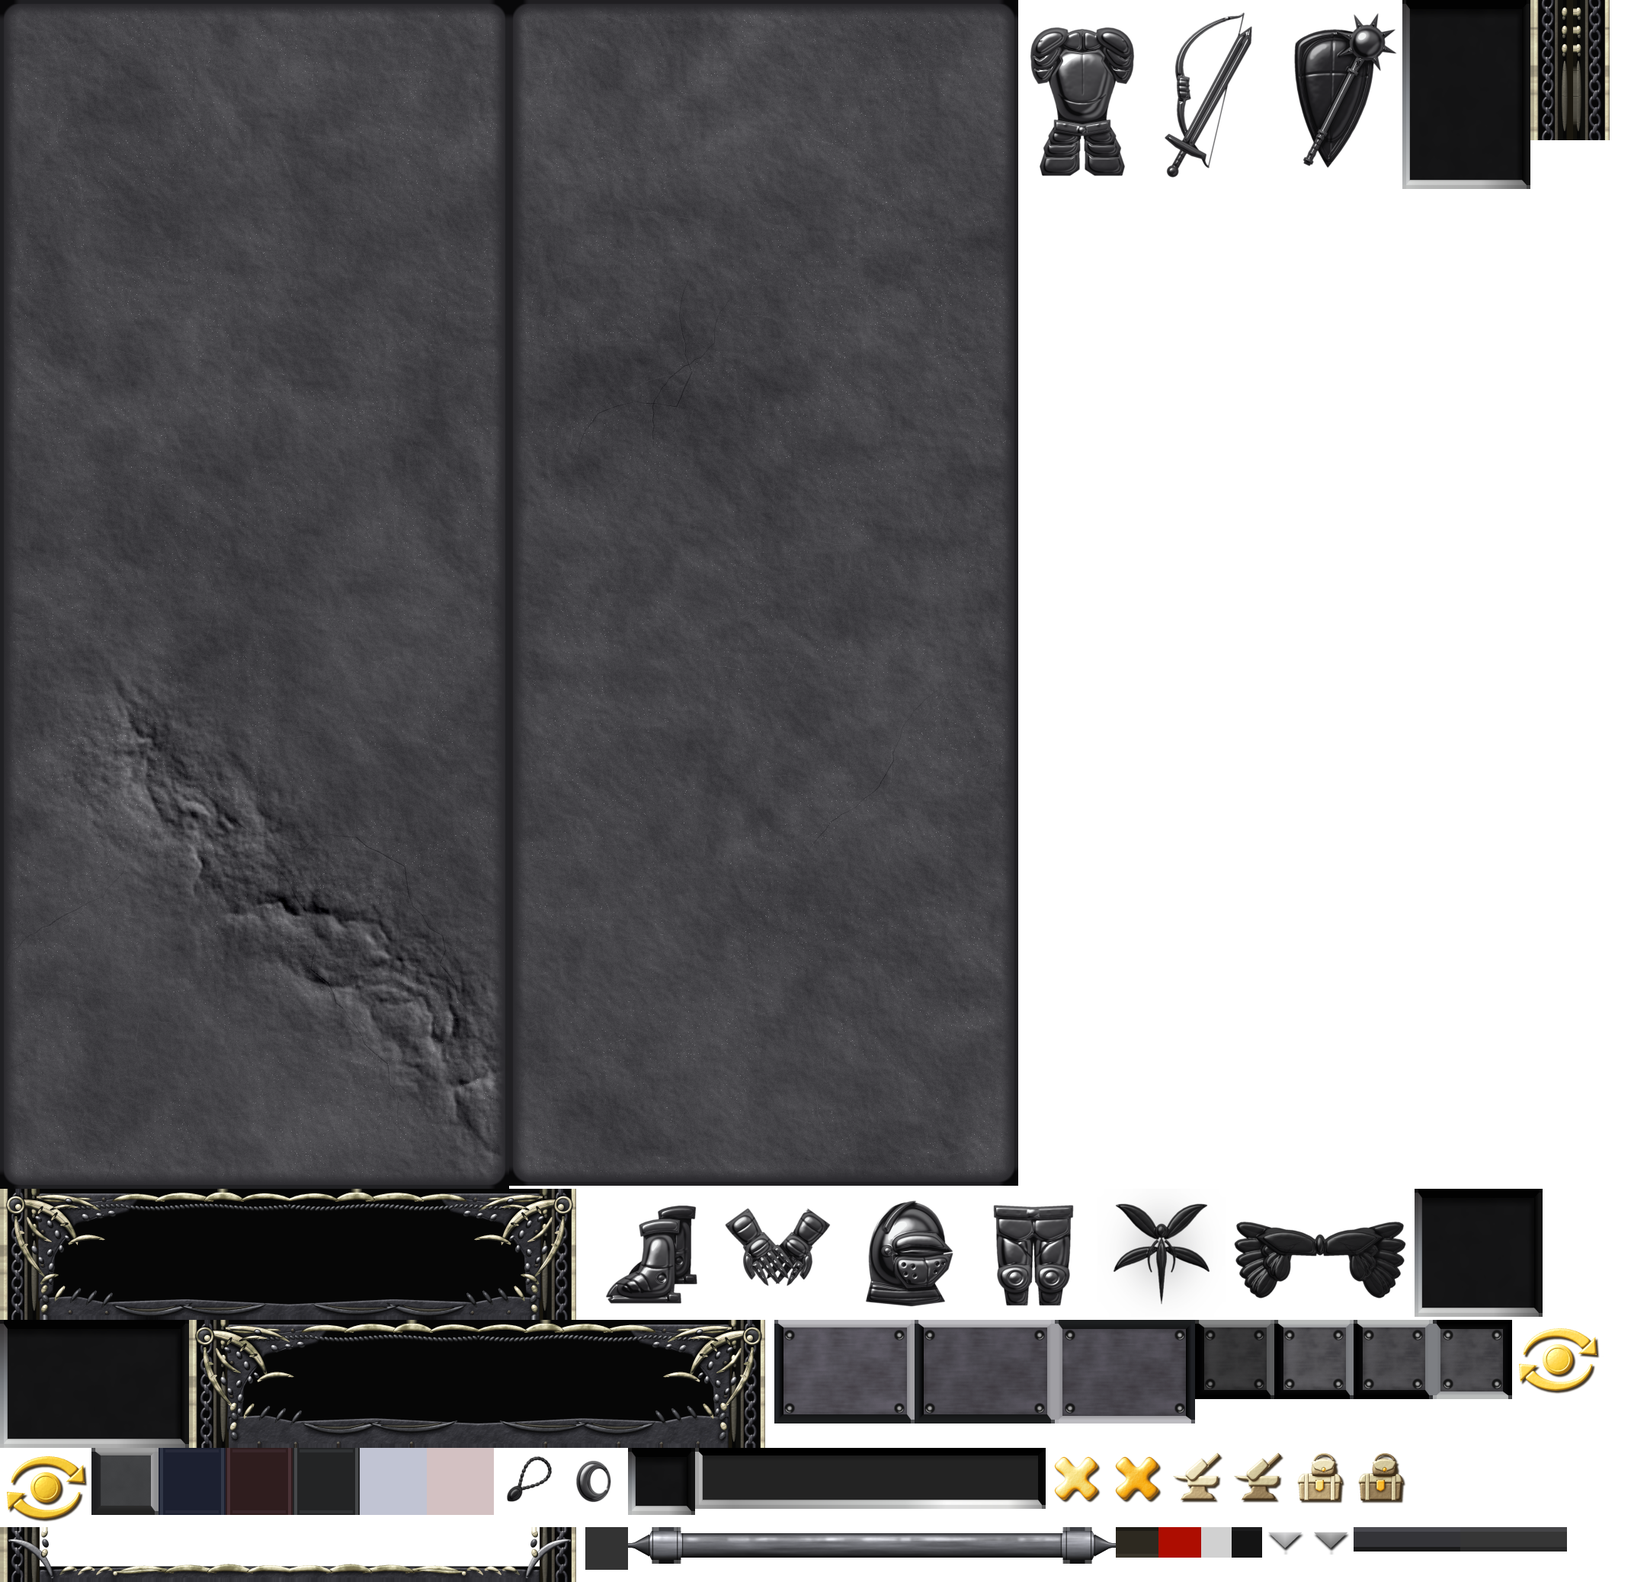
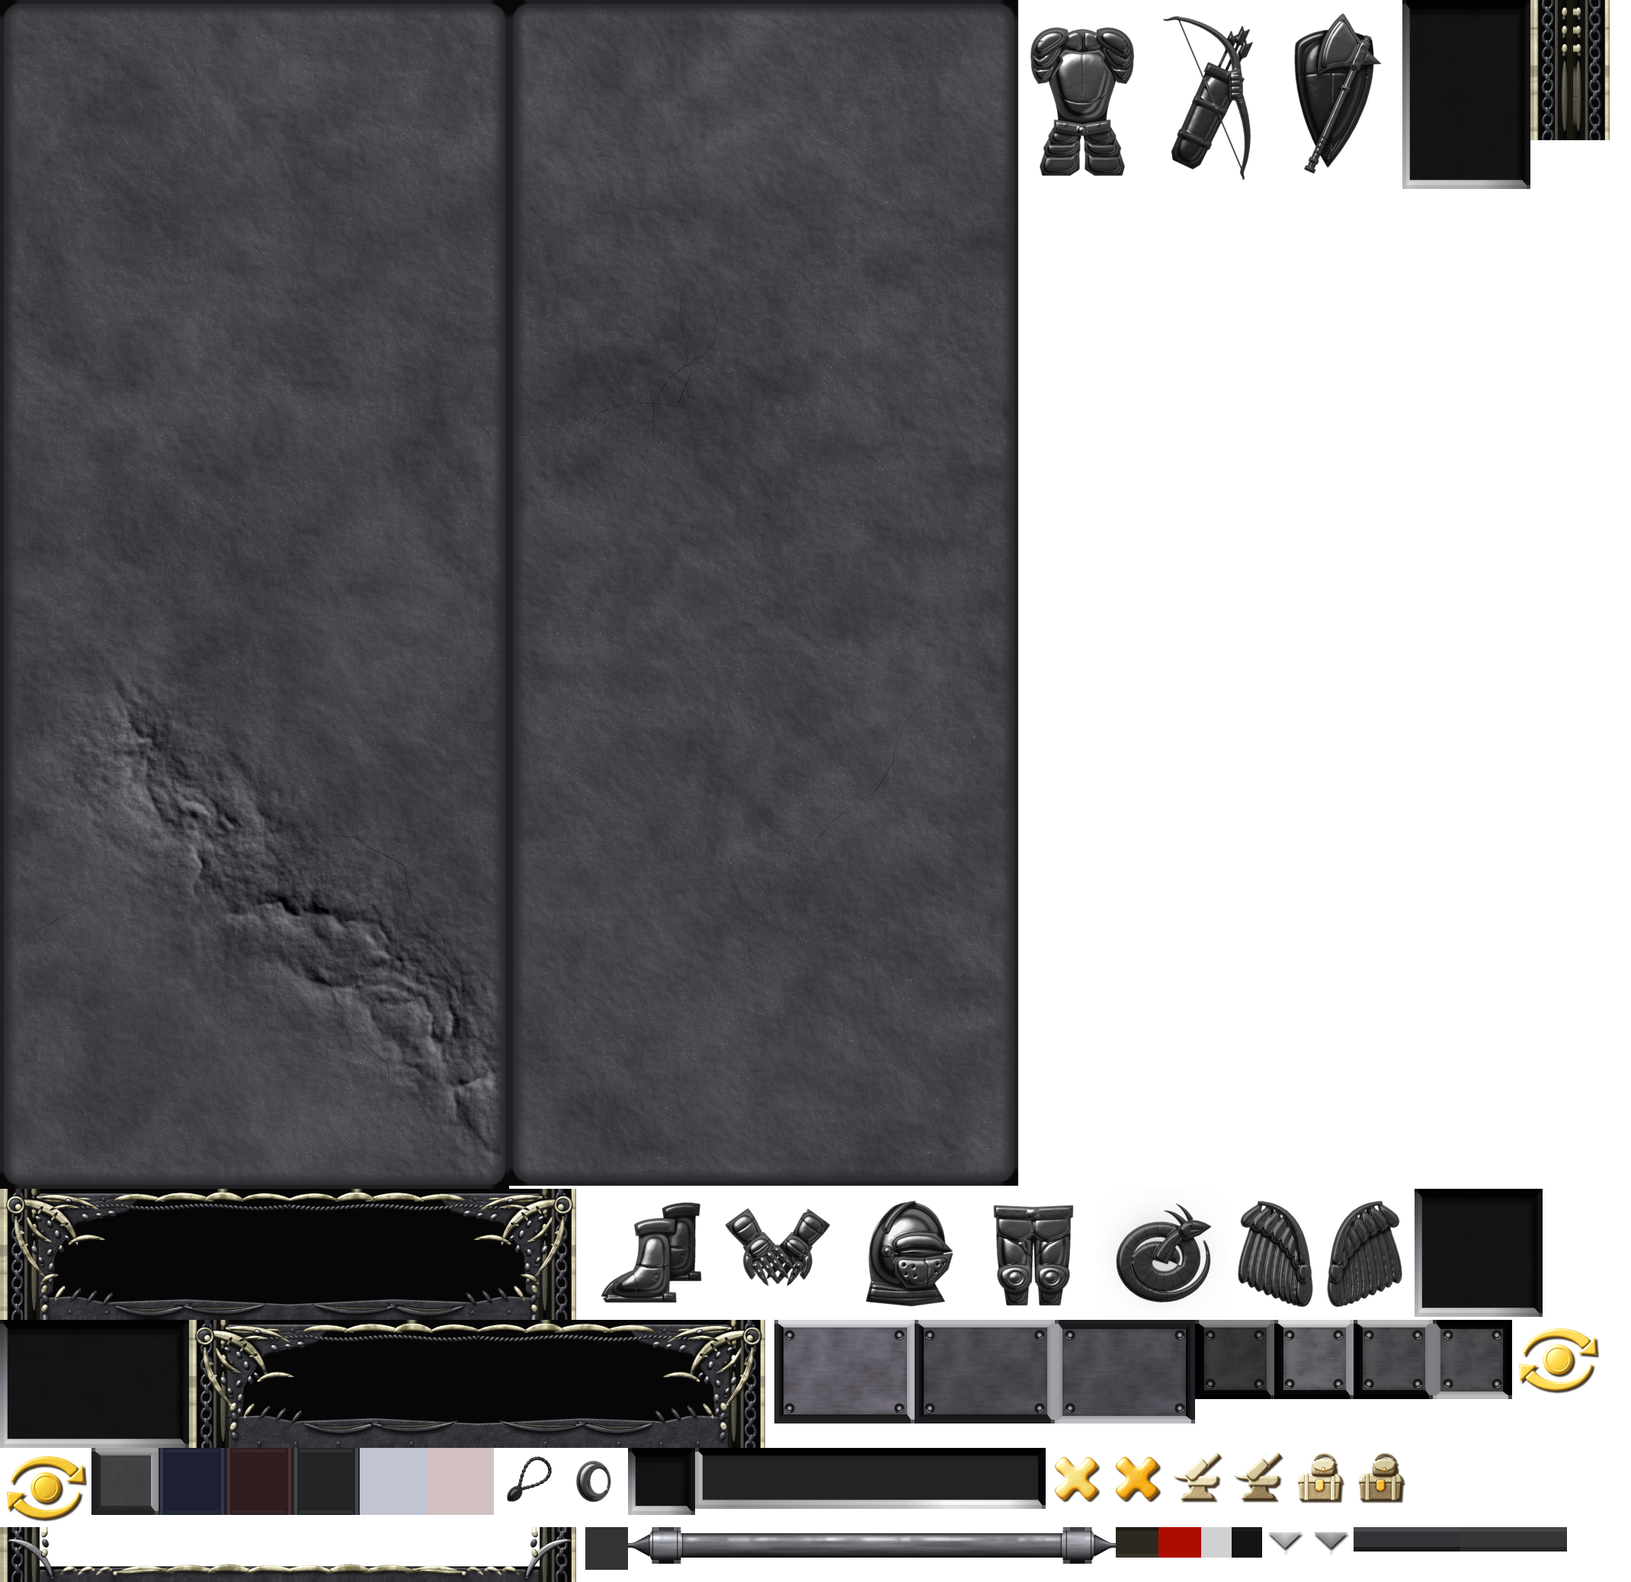
Window fix loop 1: own silhouette motifs, spread wings, visible hover states

diff --git a/tools/ui-assets/gen_window.py b/tools/ui-assets/gen_window.py
@@ -861,7 +861,7 @@ def build_wells() -> list[Sprite]:
 # silhouettes --------------------------------------------------------------------------
 
 
-def chrome(R: Relief, peak: float = 1.0, name: str = "sil", fade=0.4, sharp=1.0) -> np.ndarray:
+def chrome(R: Relief, peak: float = 1.0, name: str = "sil", fade=0.4, sharp=1.0, lift=1.0) -> np.ndarray:
     """Photographed pewter: an environment lookup rather than a Phong lobe, so curved plates
     pick up a soft window, a dark horizon and a thin floor bounce."""
     H = R.H + (ua.fbm(R.h, R.w, name + ".b", 1.6, 3) - 0.5) * 0.06 * (R.A > 0)
@@ -875,7 +875,7 @@ def chrome(R: Relief, peak: float = 1.0, name: str = "sil", fade=0.4, sharp=1.0)
     window = 0.46 * smooth(s, 0.62, 0.93) + 0.62 * sharp * smooth(s, 0.9, 0.965)
     horizon = 0.3 * np.exp(-(((rz + 0.05) / 0.3) ** 2))
     bounce = 0.26 * smooth(rx + ry, 0.75, 1.15)
-    v = (sky + window - horizon + bounce) * R.T
+    v = (sky + window - horizon + bounce) * R.T * lift
     occ = 1 - np.clip((gblur(R.H, 1.1 * PPU) - R.H) * 0.55, 0, 0.85)
     v = v * occ
     yy, xx = np.mgrid[0:R.h, 0:R.w].astype(np.float32)
@@ -1001,19 +1001,19 @@ def boot(R: Relief, ox, oy, z, s=1.0):
     R.poly(P([(1.2, 28.6), (5, 27), (22.6, 27), (22.8, 30), (2.2, 30)]), STEEL, z, 1.2, 0.8)
     R.poly(P(bez((0.6, 28), (2.5, 23), (6, 21.4), (11.5, 19)) + bez((11.5, 19), (13, 16), (13.6, 12), (13.2, 6)) + [(24, 5)] + bez((24, 5), (23.6, 13), (24.2, 20), (23.4, 28))), STEEL, z + 0.6, 7.5, 5.6, belly=0.85)
     R.poly(P(bez((11.8, 3.6), (15, 1.6), (21, 1), (25.6, 2)) + [(25.2, 6.4)] + bez((25.2, 6.4), (21, 5.6), (16, 6), (12.4, 7.6))), STEEL, z + 7.4, 2.2, 1.6, belly=0.6)
-    for a, b in (((3.8, 23.2), (9.2, 26.6)), ((7, 21.6), (12.6, 26.2)), ((10.6, 19.8), (15.6, 25.4))):
-        seam(R, P(bez(a, (a[0] + 3, a[1] + 0.5), (b[0] - 1, b[1] - 3), b)), 0.45 * s, 0.5, 0.25)
+    for a, b in (((5.6, 22.8), (8.2, 27.2)), ((10.8, 20), (13.2, 27.2))):
+        seam(R, P(bez(a, (a[0] + 1.6, a[1] + 0.8), (b[0] - 0.6, b[1] - 2), b)), 0.3 * s, 0.22, 0.45)
     seam(R, P(bez((12.6, 17), (15.5, 18.6), (20, 18.6), (23.2, 17.4))), 0.5 * s, 0.5, 0.25)
-    R.ellipsoid(ox + 19.3 * s, oy + 21.5 * s, 1.5 * s, 1.5 * s, 0, STEEL, z + 6.2, 0.8)
+    R.ellipsoid(ox + 19.3 * s, oy + 21.5 * s, 1.0 * s, 1.0 * s, 0, STEEL, z + 7.4, 0.5)
     R.poly(P([(21.2, 26.4), (25.8, 26.6), (26, 30), (21.4, 30)]), STEEL, z + 0.2, 1.8, 1.0)  # heel
 
 
 def sil_boots() -> np.ndarray:
     R = Relief(40, 40)
-    boot(R, 12.2, 3.2, 0.3, 0.9)
+    boot(R, 13.6, 2.2, 0.3, 0.9)
     R.T[:] = 0.66
     boot2 = Relief(40, 40)
-    boot(boot2, 5.2, 7.4, 6.5, 0.97)
+    boot(boot2, 3.6, 7.2, 6.5, 0.97)
     sel = boot2.A > 0
     R.H[sel] = boot2.H[sel]
     R.A[sel] = 1
@@ -1053,36 +1053,33 @@ def sil_gloves() -> np.ndarray:
 
 def sil_weapon_left() -> np.ndarray:
     R = Relief(40, 60)
-    # the bow behind: two recurve limbs, a leather grip and a string
-    up = bez((12, 28), (6.5, 20), (11.5, 9.5), (26, 5), n=40)
-    low = bez((12, 28), (9, 35), (9.5, 42), (17, 50), n=40)
-    R.poly(ribbon(up, lambda t: 3.0 - 1.9 * t), STEEL, 0.5, 2.0, 1.4, ridge=0.2)
-    R.poly(ribbon(low, lambda t: 3.0 - 1.9 * t), STEEL, 0.5, 2.0, 1.4, ridge=0.2)
-    R.poly(ribbon(bez((26, 5), (28, 4.6), (30, 5), (31, 3.2), n=12), lambda t: 1.1 - 0.7 * t), STEEL, 0.5, 1, 0.6)
-    R.poly(ribbon(bez((17, 50), (18, 51), (17.8, 53), (19.6, 54), n=12), lambda t: 1.1 - 0.7 * t), STEEL, 0.5, 1, 0.6)
-    R.poly(ribbon(bez((11.4, 24), (10.8, 26), (10.9, 29), (11.8, 32), n=12), lambda t: 3.9), STEEL, 1.4, 2.2, 1.3)
-    for y in (25.2, 27, 28.8, 30.6):
-        seam(R, [(9, y), (13.8, y + 0.4)], 0.32, 0.4, 0.35)
-    R.poly(ribbon([(31, 3.4), (19.4, 53.6)], lambda t: 0.3), STEEL, 0.3, 0.3, 0.2)
-    # the sword in front, point up and right, guard low and left
-    tip, base = (33.6, 7.6), (11.6, 48)
-    dx, dy = base[0] - tip[0], base[1] - tip[1]
-    ln = math.hypot(dx, dy)
-    ux, uy = dx / ln, dy / ln
-    px_, py_ = -uy, ux
+    # a quiver slung behind: tube, collar, stitched strap and a sheaf of fletched arrows
+    def Q(a, b):
+        return (11 + 0.42 * a + 0.91 * b, 53 - 0.91 * a + 0.42 * b)
 
-    def S(a, b):
-        return (tip[0] + ux * a + px_ * b, tip[1] + uy * a + py_ * b)
-
-    R.poly([S(0, 0), S(5, 2.4), S(ln - 1, 2.0), S(ln - 1, 0)], STEEL, 4, 2.4, 2.0)
-    R.poly([S(0, 0), S(5, -2.4), S(ln - 1, -2.0), S(ln - 1, 0)], STEEL, 4.6, 2.6, 2.0)
-    R.groove([S(7, 0), S(ln - 2, 0)], 0.5, 0.5)
-    R.poly([S(ln - 2.0, -7), S(ln - 0.2, -7.6), S(ln + 0.8, -3), S(ln + 0.8, 3), S(ln - 0.2, 7.6), S(ln - 2.0, 7)], STEEL, 7.2, 1.9, 1.3)
-    R.poly([S(ln + 0.5, -1.1), S(ln + 7, -1.1), S(ln + 7, 1.1), S(ln + 0.5, 1.1)], STEEL, 6, 1.6, 1.0)
-    for a in (2.4, 4.2, 6):
-        seam(R, [S(ln + a, -1.3), S(ln + a, 1.3)], 0.3, 0.3, 0.4)
-    c = S(ln + 8.2, 0)
-    R.ellipsoid(c[0], c[1], 1.9, 1.9, 0, STEEL, 6.5, 1.5)
+    for off, top in ((-2.6, 45), (0, 48), (2.6, 44.5)):
+        R.poly([Q(30, off - 0.4), Q(top, off - 0.4), Q(top, off + 0.4), Q(30, off + 0.4)], STEEL, 0.4, 0.9, 0.4)
+        R.poly([Q(top - 5.5, off), Q(top - 3.8, off - 1.5), Q(top + 1.6, off - 1.4), Q(top, off), Q(top + 1.6, off + 1.4), Q(top - 3.8, off + 1.5)], STEEL, 0.8, 1.5, 0.8)
+        seam(R, [Q(top - 4, off), Q(top + 0.4, off)], 0.22, 0.2, 0.5)
+    R.poly([Q(0, -3.6), Q(2.4, -5.2), Q(33, -6), Q(33, 6), Q(2.4, 5.2), Q(0, 3.6)], STEEL, 1.0, 6, 4.4, belly=0.85)
+    R.poly([Q(30.5, -6.5), Q(34, -6.5), Q(34, 6.5), Q(30.5, 6.5)], STEEL, 6.4, 1.5, 1.0)
+    for a in (8, 20):
+        R.poly([Q(a, -5.8), Q(a + 2.2, -5.8), Q(a + 2.2, 5.8), Q(a, 5.8)], STEEL, 6.2, 1.2, 0.7)
+    R.T[:] = 0.68
+    # the bow crosses in front: strung, belly to the upper right
+    B = Relief(40, 60)
+    up = bez((28, 27), (31, 16), (23, 7.5), (9.5, 5), n=40)
+    low = bez((28, 27), (31.5, 36), (34, 45), (30.5, 55), n=40)
+    B.poly(ribbon(up, lambda t: 3.3 - 2.2 * t), STEEL, 6, 2.2, 1.4, ridge=0.2)
+    B.poly(ribbon(low, lambda t: 3.3 - 2.2 * t), STEEL, 6, 2.2, 1.4, ridge=0.2)
+    B.poly(ribbon(bez((9.5, 5), (7.5, 4.6), (6.4, 6), (4.6, 5.4), n=12), lambda t: 1.2 - 0.8 * t), STEEL, 6, 1, 0.6)
+    B.poly(ribbon(bez((30.5, 55), (30, 56.2), (31.2, 56.8), (30.8, 58), n=12), lambda t: 1.2 - 0.8 * t), STEEL, 6, 1, 0.6)
+    B.poly(ribbon(bez((27.8, 22), (28.6, 25), (28.6, 29), (28.4, 32), n=12), lambda t: 4.3), STEEL, 7.6, 2.3, 1.3)
+    for y in (23.2, 25.2, 27.2, 29.2, 31):
+        seam(B, [(26, y + 0.2), (30.8, y)], 0.32, 0.4, 0.35)
+    B.poly(ribbon([(9.5, 5), (30.5, 55)], lambda t: 0.36), STEEL, 7, 0.3, 0.2)
+    sel = B.A > 0
+    R.H[sel], R.T[sel], R.A[sel] = B.H[sel], B.T[sel], 1
     return chrome(R, 0.93, "sil.weapon.left")
 
 
@@ -1096,26 +1093,30 @@ def sil_weapon_right() -> np.ndarray:
     seam(R, [(18.3, 10), (17, 52)], 0.4, 0.4, 0.45)
     seam(R, bez((7.4, 24), (14, 22.5), (22, 22.5), (30.2, 24)), 0.4, 0.4, 0.45)
     R.T[:] = 0.5
-    # the mace, handle to the lower left, flanged star head to the upper right
-    a, b = (29.5, 13), (9.6, 53)
-    M = Relief(40, 60)
-    M.poly(ribbon([a, b], lambda t: 2.0 + 0.2 * t), STEEL, 6, 2.0, 1.2)
+    # a bearded axe laid over it: long haft to the lower left, blade towards the shield
+    a, b = (28.5, 14), (10.5, 55)
     dx, dy = b[0] - a[0], b[1] - a[1]
     ln = math.hypot(dx, dy)
     ux, uy = dx / ln, dy / ln
-    for f, w in ((0.97, 3.2), (0.91, 2.4), (0.78, 2.6), (0.74, 3.0), (0.24, 3.4)):
-        cx, cy = a[0] + dx * f, a[1] + dy * f
-        M.poly(ribbon([(cx - ux * 0.6, cy - uy * 0.6), (cx + ux * 0.6, cy + uy * 0.6)], lambda t: w), STEEL, 7.2, 1.2, 0.7)
-    for f in (0.79, 0.83, 0.87):
-        cx, cy = a[0] + dx * f, a[1] + dy * f
-        seam(M, [(cx + uy * 1.4, cy - ux * 1.4), (cx - uy * 1.4, cy + ux * 1.4)], 0.32, 0.3, 0.4)
-    cx, cy = a
-    for i in range(8):
-        ang = math.tau * i / 8 + 0.35
-        tipx, tipy = cx + math.cos(ang) * 10.4, cy + math.sin(ang) * 10.4
-        bx, by = -math.sin(ang) * 2.5, math.cos(ang) * 2.5
-        M.poly([(cx + bx, cy + by), (tipx, tipy), (cx - bx, cy - by)], STEEL, 7, 3.2, 1.4)
-    M.ellipsoid(cx, cy, 5.8, 5.8, 0, STEEL, 7, 5.4)
+    px_, py_ = -uy, ux
+
+    def S(along, across):
+        return (a[0] + ux * along + px_ * across, a[1] + uy * along + py_ * across)
+
+    M = Relief(40, 60)
+    M.poly(ribbon([S(-3.4, 0), S(ln, 0)], lambda t: 2.1 + 0.3 * t), STEEL, 6, 2.0, 1.2)
+    for f, w in ((0.34, 3.0), (0.92, 3.2), (0.99, 3.6)):
+        M.poly(ribbon([S(ln * f - 0.7, 0), S(ln * f + 0.7, 0)], lambda t: w), STEEL, 7.2, 1.2, 0.7)
+    for f in (0.74, 0.78, 0.82, 0.86):
+        seam(M, [S(ln * f, -1.5), S(ln * f, 1.5)], 0.32, 0.3, 0.4)
+    blade = bez(S(-0.8, 1), S(-2.6, 5), S(-4.4, 6.4), S(-7, 10.6), n=14) + bez(S(-7, 10.6), S(-1, 13.8), S(7, 14), S(14.6, 10), n=18) + bez(S(14.6, 10), S(11.4, 7.4), S(8.6, 4.4), S(8.4, 1), n=14)
+    M.poly(blade, STEEL, 6.4, 4.0, 2.6, belly=0.8)
+    edge = bez(S(-5.4, 9.2), S(0, 11.6), S(6.4, 11.8), S(12.4, 8.9), n=20)
+    seam(M, edge, 0.3, 0.45, 0.42)
+    M.poly([S(0.8, -1), S(3.2, -7.6), S(6.4, -1)], STEEL, 7, 2.6, 1.1)
+    M.poly([S(-1.5, -1.7), S(8.4, -1.7), S(8.4, 1.7), S(-1.5, 1.7)], STEEL, 8.6, 1.8, 1)
+    for along in (1.2, 5.8):
+        M.ellipsoid(*S(along, 0), 0.6, 0.6, 0, STEEL, 10, 0.4)
     sel = M.A > 0
     R.H[sel] = M.H[sel]
     R.T[sel] = M.T[sel]
@@ -1123,31 +1124,39 @@ def sil_weapon_right() -> np.ndarray:
     return chrome(R, 0.95, "sil.weapon.right")
 
 
-def blade_wing(R, root, tip, wid, z):
-    mx, my = (root[0] + tip[0]) / 2, (root[1] + tip[1]) / 2
-    dx, dy = tip[0] - root[0], tip[1] - root[1]
-    p = bez(root, (mx - dy * 0.1, my + dx * 0.1), (mx + dx * 0.25 - dy * 0.14, my + dy * 0.25 + dx * 0.14), tip, n=30)
-    R.poly(ribbon(p, lambda t: 0.3 + wid * math.sin(math.pi * t**0.7)), STEEL, z, 1.1, 1.3, ridge=0.2)
-    seam(R, p[:27], 0.28, 0.25, 0.5)
-
-
 def sil_pet() -> np.ndarray:
+    """A coiled familiar: a small drake asleep in its own tail, head lifted over the coil."""
     R = Relief(40, 40)
-    # four long blade wings in an X around a thin floating figure
-    cx = 20
-    blade_wing(R, (cx - 1, 15.5), (5, 4.4), 5.0, 0.5)
-    blade_wing(R, (cx - 1, 18.5), (4.4, 26.2), 3.9, 0.3)
-    R.mirrored_about(20)
-    R.poly(bez((20, 15), (18.2, 18), (18, 22), (18.8, 25)) + bez((18.8, 25), (19.2, 29), (19.4, 33), (20, 37)) + [(20.1, 15)], STEEL, 2, 1.3, 1.1)
-    R.poly(bez((20, 15), (21.8, 18), (22, 22), (21.2, 25)) + bez((21.2, 25), (20.8, 29), (20.6, 33), (20, 37)) + [(19.9, 15)], STEEL, 2, 1.3, 1.1)
-    R.ellipsoid(20, 12.8, 1.9, 2.3, 0, STEEL, 2.4, 1.8)
-    R.poly(ribbon(bez((18.8, 16), (15, 19), (15.4, 24), (16.8, 26.4), n=14), lambda t: 0.9 - 0.5 * t), STEEL, 2, 0.7, 0.5)
-    R.poly(ribbon(bez((21.2, 16), (25, 19), (24.6, 24), (23.2, 26.4), n=14), lambda t: 0.9 - 0.5 * t), STEEL, 2, 0.7, 0.5)
-    img = chrome(R, 0.5, "sil.pet", fade=0.2, sharp=0.75)
+    cx, cy = 20, 22.5
+    turns = 2.1
+    pts = []
+    n = 150
+    for i in range(n + 1):
+        t = i / n
+        ang = -0.5 + t * turns * math.tau
+        rad = 14.6 - t * 11.6
+        pts.append((cx + rad * math.cos(ang) * 1.08, cy + rad * math.sin(ang) * 0.94))
+    R.poly(ribbon(pts, lambda t: 0.5 + 6.2 * min(t * 2.4, 1) ** 0.8), STEEL, 0.5, 2.7, 1.5, belly=0.7)
+    # scutes along the spine
+    for i in range(10, n - 2, 4):
+        (x0, y0), (x1, y1) = pts[i - 1], pts[i + 1]
+        ax, ay = x1 - x0, y1 - y0
+        ln = math.hypot(ax, ay) or 1
+        w = 0.5 + 2.4 * min(i / n * 2.4, 1) ** 0.8
+        darken(R, [(pts[i][0] - ay / ln * w, pts[i][1] + ax / ln * w), (pts[i][0] + ay / ln * w, pts[i][1] - ax / ln * w)], 0.2, 0.62)
+    # neck and head rising from the centre towards the upper right
+    neck = bez((19.6, 23), (21, 18), (24.6, 14.4), (28.4, 12.6), n=20)
+    R.poly(ribbon(neck, lambda t: 5.2 - 2.1 * t), STEEL, 3.6, 2.2, 1.4, belly=0.6)
+    R.poly(bez((25.2, 12), (28, 8.6), (31.6, 8.4), (36.4, 11.4), n=12) + [(32.4, 14.2), (27.6, 16)], STEEL, 5.6, 2.2, 1.4, belly=0.6)
+    R.poly(ribbon(bez((27.4, 10.4), (25.4, 8), (23.2, 6.4), (20.6, 6.2), n=14), lambda t: 2.0 * (1 - t) + 0.15), STEEL, 6.6, 1, 0.7)
+    R.poly(ribbon(bez((29.6, 9.4), (28.4, 6.8), (26.8, 5), (24.6, 3.8), n=14), lambda t: 1.7 * (1 - t) + 0.15), STEEL, 6.2, 1, 0.7)
+    seam(R, [(29.4, 12.4), (33.2, 12.2), (35.2, 11.8)], 0.3, 0.4, 0.4)
+    R.ellipsoid(29.6, 10.8, 0.6, 0.45, 12, STEEL, 7.8, 0.3)
+    img = chrome(R, 0.5, "sil.pet", fade=0.2, sharp=0.8, lift=1.5)
     # the faint pool of light behind it
     h, w = R.h, R.w
     yy, xx = np.mgrid[0:h, 0:w].astype(np.float32)
-    pool = np.exp(-(((xx / PPU - 20) / 11) ** 2 + ((yy / PPU - 19) / 13) ** 2))
+    pool = np.exp(-(((xx / PPU - 20) / 12) ** 2 + ((yy / PPU - 21) / 12) ** 2))
     back = rgba(h, w, "#6C6C6E")
     back[..., 3] = pool * 0.3
     return ua.over(back, img)
@@ -1164,16 +1173,21 @@ def feather(R, root, ang, ln, wid, curl, z):
 
 
 def sil_wings() -> np.ndarray:
+    """One spread pair: arms rising from two separate shoulders, primaries sweeping out and down."""
     R = Relief(60, 40)
-    # low fanned wings, outer primaries lowest so each one overlaps the next
-    for i in range(7):
-        feather(R, (26 - i * 1.7, 16 + i * 0.9), 183 - i * 13.5, 23.5 - i * 1.6, 5.2, 4, 0.3 + i * 0.5)
-    for i in range(5):
-        feather(R, (26.5 - i * 2.0, 15.4 + i * 0.7), 179 - i * 22, 14.5 - i * 0.9, 4.8, 2.5, 4 + i * 0.4)
-    R.poly(bez((29, 16.2), (24, 11.6), (15, 11.2), (9.5, 15)) + [(17, 20.6), (28.8, 21)], STEEL, 6.4, 3, 1.8, belly=0.7)
+    arm = bez((24.8, 24), (24, 10), (18, 4.2), (9.6, 3.6), n=40)
+    # flight feathers hang from the arm, outermost first so each inner one overlaps it
+    for i in range(10):
+        root = arm[int((0.99 - i * 0.094) * 40)]
+        tip_y = 30 + 7 * math.sin(i / 9 * math.pi / 2)
+        feather(R, (root[0], root[1] + 0.6), 99 - i * 1.6, tip_y - root[1], 5.0, 1.8, 0.3 + i * 0.42)
+    # a row of coverts along the arm
+    for i in range(8):
+        root = arm[int((0.95 - i * 0.12) * 40)]
+        feather(R, root, 124 - i * 6, 9.6, 4.0, 1.2, 4.8 + i * 0.3)
+    R.poly(ribbon(arm, lambda t: 3.8 - 2.7 * t), STEEL, 7, 2.4, 1.3, belly=0.5)
     R.mirrored_about(30)
-    R.ellipsoid(30, 17.4, 1.8, 3.4, 0, STEEL, 6.4, 2.4)
-    return chrome(R, 0.5, "sil.wings", fade=0.3, sharp=0.75)
+    return chrome(R, 0.5, "sil.wings", fade=0.12, sharp=0.85, lift=1.75)
 
 
 def sil_pendant() -> np.ndarray:
@@ -1266,7 +1280,7 @@ def plate(w_u, h_u, name, edges, face_gain=1.0, swap=False, desat=False, faces=(
     rgb *= (0.88 + 0.12 * smooth(depth, 1.0, 1.9))[..., None]
     for eid, (a, b) in ((1, top), (2, right), (3, bottom), (4, left)):
         sel = edge == eid
-        rgb[sel] = _lerp(a, b, depth)[sel]
+        rgb[sel] = _lerp(a, b, depth)[sel] * (1 + (face_gain - 1) * 0.5)
     out = np.dstack((np.clip(rgb, 0, 1), np.ones((h, w), dtype=np.float32))).astype(np.float32)
     for cx in (rivet_in, w_u - rivet_in):
         for cy in (rivet_in, h_u - rivet_in):
@@ -1367,17 +1381,20 @@ def glyph_combine(hover) -> np.ndarray:
     return glyph_finish(R, hover, shadow=(0.6, 0.7), name="glyph.combine")
 
 
+HOVER_GAIN = 1.3  # the spec's +10% does not read on a dark plate; bevels get half of this
+
+
 def build_plates() -> list[Sprite]:
     e24 = (("#BDBFBE", "#96979A"), ("#7E8084", "btn.bevel.right"), ("btn.wall", "#0A0A0A"), ("#000001", "#0A0A0B"))
     e44 = (("#BFBEC3", "#99989C"), ("#A2A1A6", "#8A898E"), ("#1D1F20", "#141516"), ("#212327", "#000000"))
     f44 = ("#3F3B41", "#4C4A51", "#5A5660")
     out = [
         Sprite("btn.plate24.normal", plate(24, 24, "btn24", e24)),
-        Sprite("btn.plate24.hover", plate(24, 24, "btn24", e24, 1.1)),
+        Sprite("btn.plate24.hover", plate(24, 24, "btn24", e24, HOVER_GAIN)),
         Sprite("btn.plate24.pressed", plate(24, 24, "btn24", e24, swap=True)),
         Sprite("btn.plate24.disabled", plate(24, 24, "btn24", e24, desat=True)),
         Sprite("btn.plate44x32.normal", plate(44, 32, "btn44", e44, faces=f44)),
-        Sprite("btn.plate44x32.hover", plate(44, 32, "btn44", e44, 1.1, faces=f44)),
+        Sprite("btn.plate44x32.hover", plate(44, 32, "btn44", e44, HOVER_GAIN, faces=f44)),
         Sprite("btn.plate44x32.pressed", plate(44, 32, "btn44", e44, swap=True, faces=f44)),
     ]
     for nm, fn in (("close", glyph_close), ("repair", glyph_repair), ("store", glyph_store), ("combine", glyph_combine)):

diff --git a/tools/ui-assets/tests/check_window.py b/tools/ui-assets/tests/check_window.py
@@ -195,6 +195,21 @@ def check_colours() -> None:
     pr = px("btn.plate24.pressed")
     if pr[2, 48, :3].mean() >= pr[-3, 48, :3].mean():
         fail("pressed plate must swap bevels")
+    # every state has to read at a glance, not just differ
+    for base, other, floor in (
+        ("btn.plate24.normal", "btn.plate24.hover", 14), ("btn.plate24.normal", "btn.plate24.pressed", 10), ("btn.plate24.normal", "btn.plate24.disabled", 10),
+        ("btn.plate44x32.normal", "btn.plate44x32.hover", 14), ("btn.plate44x32.normal", "btn.plate44x32.pressed", 10),
+        ("win.setoption.tab.normal", "win.setoption.tab.hover", 10), ("win.arrow.down.normal", "win.arrow.down.hover", 8),
+        ("glyph.close.normal", "glyph.close.hover", 8), ("glyph.repair.normal", "glyph.repair.hover", 8),
+        ("glyph.store.normal", "glyph.store.hover", 8), ("glyph.combine.normal", "glyph.combine.hover", 8),
+    ):
+        x, y = px(base).astype(float), px(other).astype(float)
+        mask = (x[..., 3] > 128) & (y[..., 3] > 128)
+        d = np.abs(x[..., :3] - y[..., :3]).mean(axis=2)[mask].mean()
+        print(f"state {other}: {d:.1f}")
+        if d < floor:
+            fail(f"{other}: only {d:.1f} from {base}, want {floor}")
+
     rod = px("win.scroll.rod")
     mid = rod[:, rod.shape[1] // 2, :3].mean(axis=1)
     if mid.max() < 110 or mid.argmax() > 16:
@@ -218,6 +233,15 @@ def check_silhouettes() -> None:
         cover = (s[..., 3] > 128).mean()
         if cover < 0.05:
             fail(f"sil.{n}: covers only {cover:.2f}")
+        if n == "wings":
+            if cover < 0.3:
+                fail(f"sil.wings: covers only {cover:.2f}, want a large spread pair")
+            body = np.median(solid[:, :3].mean(axis=1))
+            if body < 42:
+                fail(f"sil.wings: body {body:.0f} too dim")
+            centre = s[:, s.shape[1] // 2 - 8 : s.shape[1] // 2 + 8, 3]
+            if (centre > 128).mean() > 0.02:
+                fail("sil.wings: no central knot, the pair must stand apart")
     for n in ("pet", "wings", "pendant"):
         if peaks.get(n, 0) > 0x7E + 6:
             fail(f"sil.{n}: dim peak {peaks[n]:.0f} over #7E7E7E")
